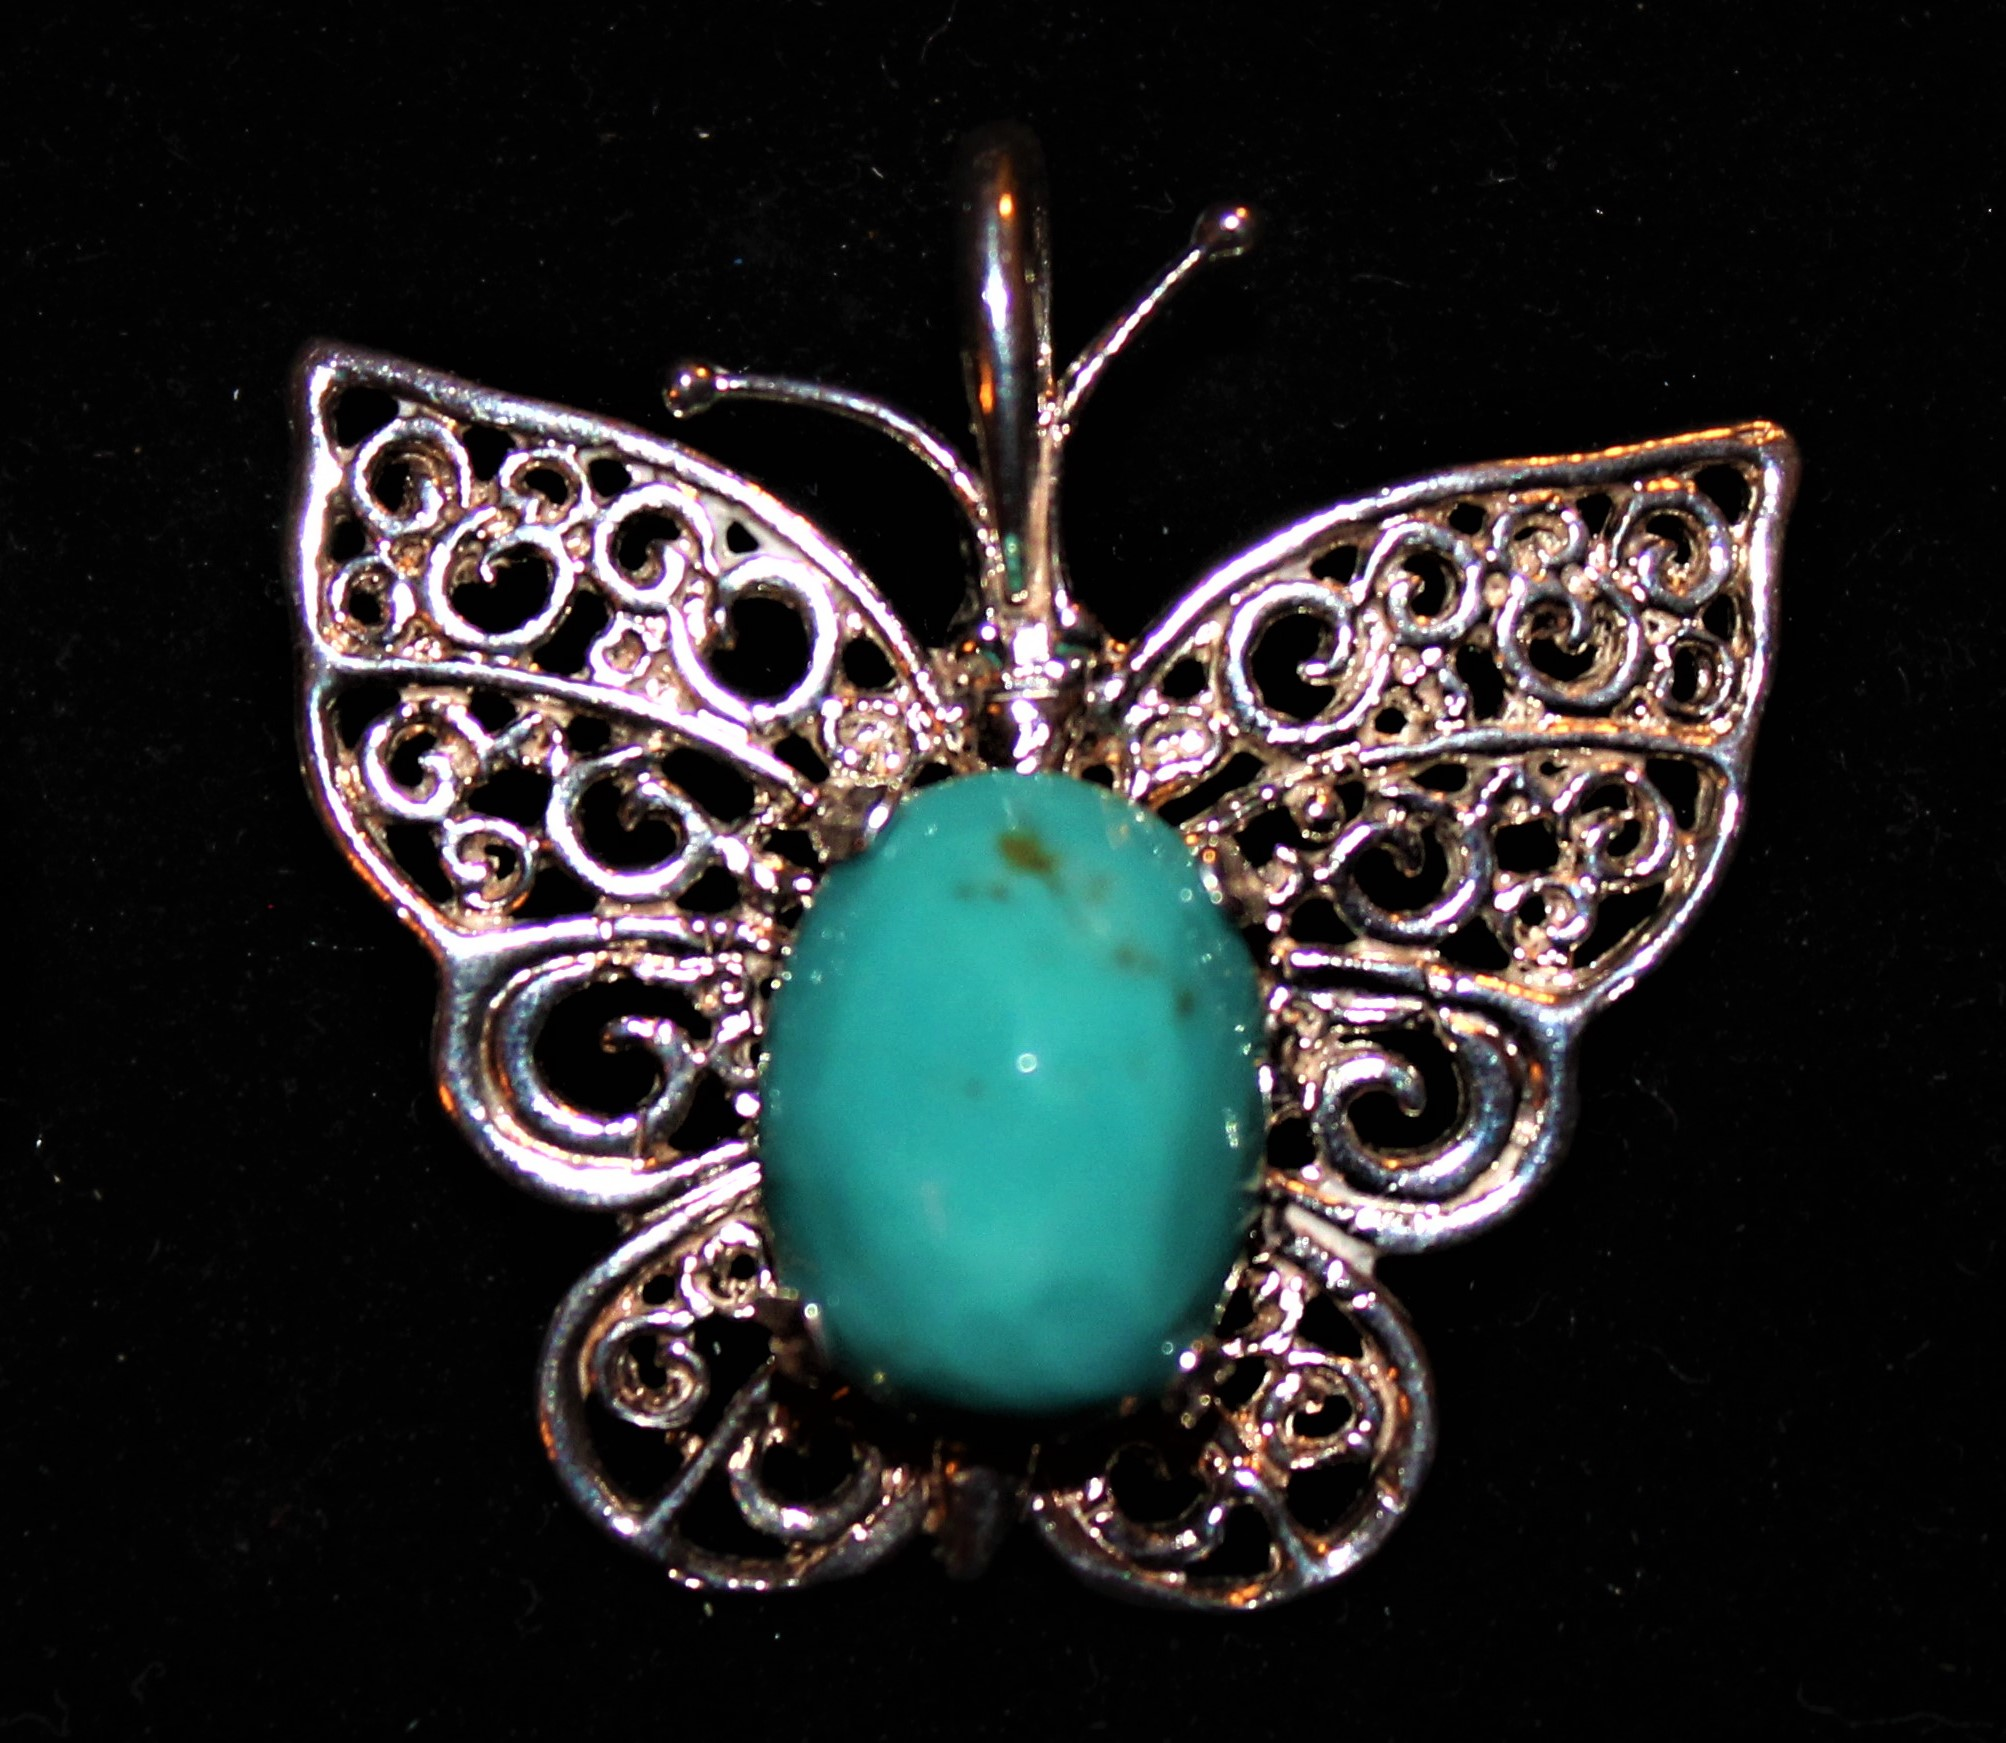
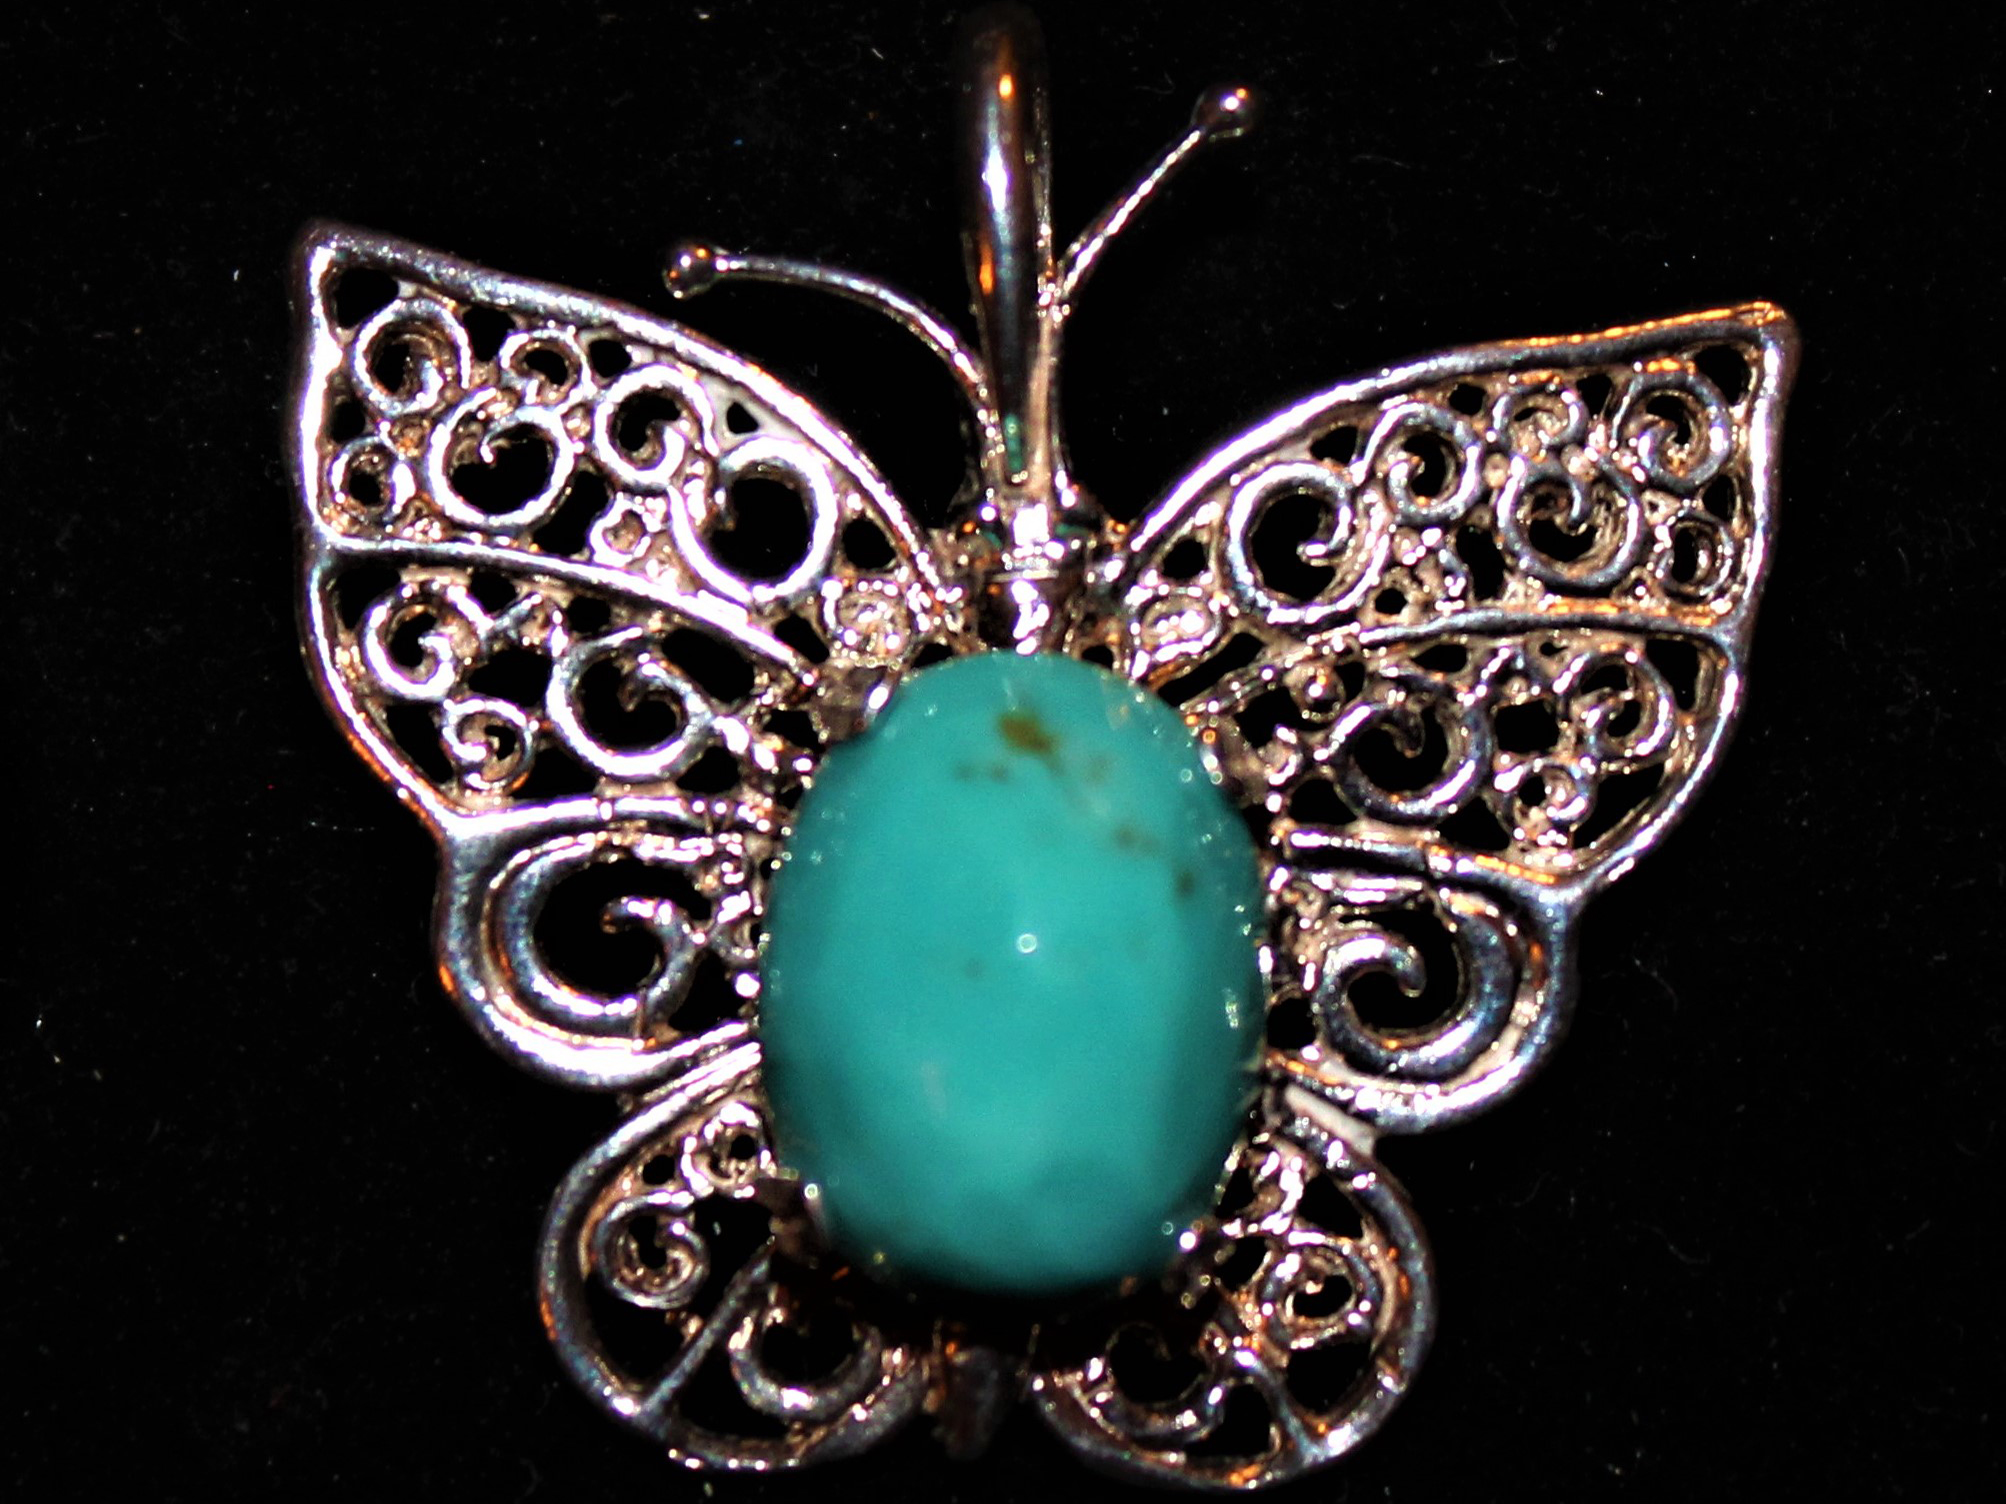
Photoshop first gallery row

diff --git a/index.html b/index.html
@@ -178,7 +178,7 @@
       <!-- Product Preview -->
       <section id="gallery" class="container py-5">
         <h1 class="fw-light text-center text-lg-start mt-4 mb-0">
-          Thumbnail Gallery
+          Past Work
         </h1>
 
         <hr class="mt-2 mb-5" />
@@ -188,7 +188,7 @@
             <a href="" class="d-block mb-4 h-100">
               <img
                 class="img-fluid img-thumbnail"
-                src="https://dummyimage.com/400x300/343a40/6c757d"
+                src="/assets/galleryImages/01.JPG"
                 alt=""
               />
             </a>
@@ -197,7 +197,7 @@
             <a href="" class="d-block mb-4 h-100">
               <img
                 class="img-fluid img-thumbnail"
-                src="https://dummyimage.com/400x300/343a40/6c757d"
+                src="/assets/galleryImages/02.JPG"
                 alt=""
               />
             </a>
@@ -206,7 +206,7 @@
             <a href="" class="d-block mb-4 h-100">
               <img
                 class="img-fluid img-thumbnail"
-                src="https://dummyimage.com/400x300/343a40/6c757d"
+                src="/assets/galleryImages/03thumbnail.jpg"
                 alt=""
               />
             </a>
@@ -215,7 +215,7 @@
             <a href="" class="d-block mb-4 h-100">
               <img
                 class="img-fluid img-thumbnail"
-                src="https://dummyimage.com/400x300/343a40/6c757d"
+                src="/assets/galleryImages/04.JPG"
                 alt=""
               />
             </a>
